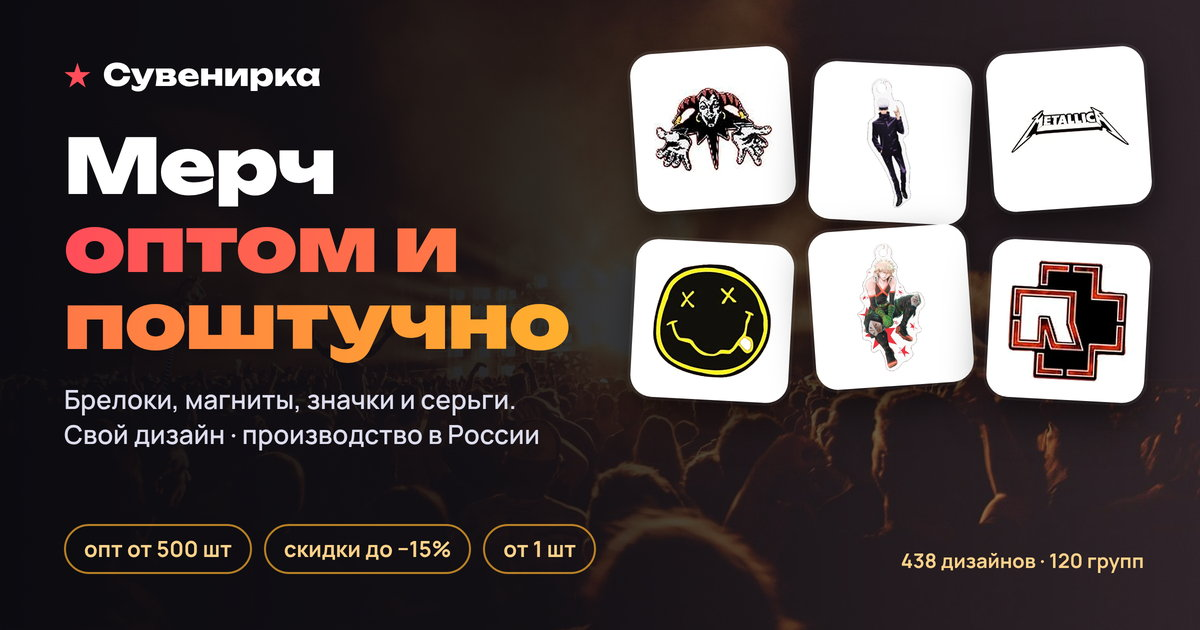
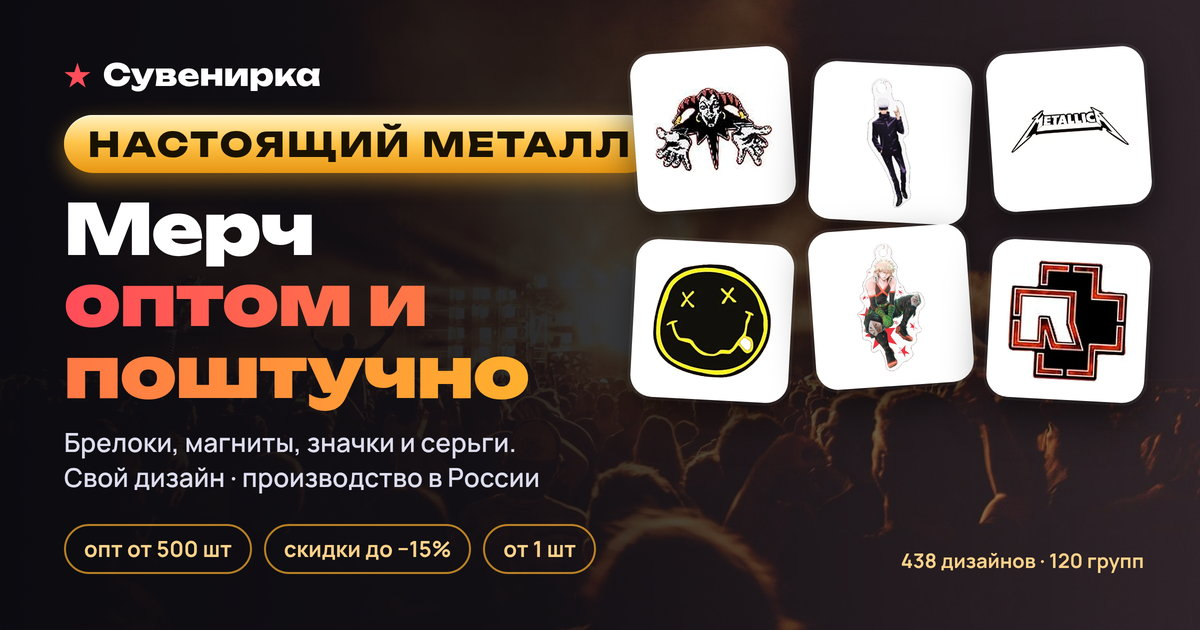
Материал «настоящий металл»: шильдик на превью ссылки, на сайте и в карточках товаров

Changed region(s): [[0.0308, 0.181, 0.555, 0.7841]]

diff --git a/index.html b/index.html
@@ -3,8 +3,8 @@
 <head>
 <meta charset="utf-8">
 <meta name="viewport" content="width=device-width, initial-scale=1">
-<title>Рок-мерч — брелоки, значки, магниты, серьги оптом и в розницу | Производство в России</title>
-<meta name="description" content="Брелоки, магниты, значки и серьги с рок-группами: оптом от 500 шт со скидками до −15% и поштучно от 1 шт. Свой дизайн под любую тематику. Производство в России.">
+<title>Мерч из настоящего металла — брелоки, значки, магниты, серьги оптом и в розницу | Производство в России</title>
+<meta name="description" content="Брелоки, магниты, значки и серьги из настоящего металла: оптом от 500 шт со скидками до −15% и поштучно от 1 шт. Свой дизайн под любую тематику. Производство в России.">
 <link rel="icon" href="favicon.svg" type="image/svg+xml">
 <link rel="icon" href="favicon-32.png" type="image/png" sizes="32x32">
 <link rel="apple-touch-icon" href="apple-touch-icon.png" sizes="180x180">
@@ -14,16 +14,16 @@
 <meta property="og:site_name" content="Сувенирка">
 <meta property="og:url" content="https://xyrma92-byte.github.io/suvenirka/">
 <meta property="og:title" content="Сувенирка — мерч оптом и поштучно">
-<meta property="og:description" content="Сувенирка — мерч оптом и поштучно">
+<meta property="og:description" content="Брелоки, магниты, значки и серьги из настоящего металла. Оптом и поштучно. Производство в России.">
 <meta property="og:image" content="https://xyrma92-byte.github.io/suvenirka/images/og/og-a.jpg">
 <meta property="og:image:secure_url" content="https://xyrma92-byte.github.io/suvenirka/images/og/og-a.jpg">
 <meta property="og:image:type" content="image/jpeg">
 <meta property="og:image:width" content="1200">
 <meta property="og:image:height" content="630">
-<meta property="og:image:alt" content="Сувенирка — мерч: брелоки, магниты, значки и серьги оптом и поштучно">
+<meta property="og:image:alt" content="Сувенирка — мерч из настоящего металла: брелоки, магниты, значки и серьги оптом и поштучно">
 <meta name="twitter:card" content="summary_large_image">
 <meta name="twitter:title" content="Сувенирка — мерч оптом и поштучно">
-<meta name="twitter:description" content="Сувенирка — мерч оптом и поштучно">
+<meta name="twitter:description" content="Брелоки, магниты, значки и серьги из настоящего металла. Оптом и поштучно. Производство в России.">
 <meta name="twitter:image" content="https://xyrma92-byte.github.io/suvenirka/images/og/og-a.jpg">
 <link rel="preconnect" href="https://fonts.googleapis.com">
 <link rel="preconnect" href="https://fonts.gstatic.com" crossorigin>
@@ -51,6 +51,7 @@
 <div class="mode-gate" id="modeGate" hidden>
   <div class="mode-gate-inner">
     <div class="logo-mark big">★</div>
+    <p class="gate-materials">Настоящий металл · стойкая УФ-печать · производство в России</p>
     <h1>Как вы покупаете?</h1>
     <p class="muted">Выберите вариант — цены и условия на сайте подстроятся. Сменить можно в любой момент кнопкой «Режим» вверху.</p>
     <div class="mode-buttons">
@@ -65,7 +66,7 @@
 <section class="view" id="view-home">
   <div class="hero">
     <div class="hero-text">
-      <span class="badge">🇷🇺 Производство в России</span>
+      <span class="badge materials">Настоящий металл · стойкая УФ-печать · производство в России</span>
       <h1 data-only="wholesale">Мерч для вашего магазина — <span class="accent">оптом от 500 шт</span></h1>
       <h1 data-only="retail">Рок-мерч для себя и в подарок — <span class="accent">от 1 штуки</span></h1>
       <p class="lead">Готовая рок-линейка: <b>438 дизайнов</b> брелоков, значков, магнитов и серёжек. А ещё делаем дизайны под <b>любое направление</b>: кино, игры, аниме, комиксы, бренды и ваши собственные идеи.</p>
@@ -98,7 +99,7 @@
     <div class="fittings-head">
       <div>
         <h2 id="fittingsTitle">Фурнитура и качество</h2>
-        <p class="fittings-lead">Как выглядит фурнитура и само изделие. Нажмите фото, чтобы увеличить.</p>
+        <p class="fittings-lead">Изделия из настоящего металла — так выглядит фурнитура и само изделие. Нажмите фото, чтобы увеличить.</p>
       </div>
       <a class="btn fittings-ozon" id="fittingsOzon" href="#" target="_blank" rel="noopener noreferrer">Смотреть отзывы на Ozon</a>
     </div>

diff --git a/styles.css b/styles.css
@@ -495,3 +495,19 @@ a{color:var(--accent2)}
 .doc table{border-collapse:collapse;width:100%;margin:8px 0}
 .doc td{border:1px solid var(--line);padding:8px 10px;vertical-align:top;font-size:14px}
 .doc-nav{display:flex;flex-wrap:wrap;gap:8px;margin:0 0 18px}
+
+/* material line on the start screen and homepage hero */
+.gate-materials{display:inline-block;margin:12px 0 0;padding:8px 16px;border-radius:99px;background:linear-gradient(180deg,rgba(255,196,74,.22),rgba(255,176,46,.08));border:1px solid rgba(255,176,46,.55);color:#ffd28a;font-weight:700;font-size:14px;letter-spacing:.02em;line-height:1.35}
+.badge.materials{line-height:1.4;white-space:normal;max-width:100%;background:linear-gradient(180deg,rgba(255,196,74,.18),rgba(255,176,46,.06));border-color:rgba(255,176,46,.5);color:#ffd28a}
+@media(max-width:640px){
+  .badge.materials,.gate-materials{font-size:13px;padding:7px 12px;border-radius:16px}
+  .mode-gate{padding:14px 16px 18px;align-items:center}
+  .logo-mark.big{font-size:36px}
+  .mode-gate h1{font-size:28px;margin:6px 0 4px}
+  .mode-gate .muted{font-size:14px;margin:0 0 4px}
+  .mode-buttons{margin-top:14px;gap:12px}
+  .mode-choice{min-height:0;padding:16px 14px;gap:6px}
+  .mode-choice b{font-size:40px}
+  .mode-choice .mode-ico{font-size:30px}
+  .mode-choice span{font-size:14px}
+}

diff --git a/app.js b/app.js
@@ -358,7 +358,7 @@ function cardHTML(p){
   return `<article class="item ${inCart?'in-cart':''}" data-id="${p.id}">
     <div class="ph" data-zoom="${p.id}">${imgTag(p.image, p.name, 'loading="lazy" decoding="async" width="360" height="360"')}${stockBadge(p)}</div>
     <div class="body">
-      <span class="cat">${esc(CATS.find(c=>c.id===p.category).one)}</span>
+      <span class="cat">${esc(CATS.find(c=>c.id===p.category).one)} · металл</span>
       <span class="name">${esc(p.name)}</span>
       <span class="price">${money(basePrice(p))} <small>/ ${p.unit === 'комплект' ? 'компл. (2 шт)' : 'шт'}</small></span>
       ${reservationNote(p)}
@@ -415,7 +415,7 @@ function bindGrid(){
 }
 function zoom(p){
   const d = document.createElement('div'); d.className = 'lightbox';
-  d.innerHTML = `<div>${imgTag(p.image, '')}<div>${esc(p.name)} · ${esc(CATS.find(c=>c.id===p.category).one)}</div></div>`;
+  d.innerHTML = `<div>${imgTag(p.image, '')}<div>${esc(p.name)} · ${esc(CATS.find(c=>c.id===p.category).one)} · металл</div></div>`;
   d.onclick = () => d.remove(); document.body.appendChild(d);
 }
 function renderFittings(){

diff --git a/tools/make_og_previews.py b/tools/make_og_previews.py
@@ -3,7 +3,8 @@
 
 Reuses the HTML-and-Chrome pipeline from the first OG set (stage collage,
 minimal typography, price-focused), with two anime keyrings in every
-variant and the wording «Мерч» instead of «рок-мерч».
+variant, the wording «Мерч» instead of «рок-мерч»,
+and a prominent «НАСТОЯЩИЙ МЕТАЛЛ» badge.
 
 Usage (from repo root or any cwd):
     python3 tools/make_og_previews.py
@@ -307,14 +308,16 @@ html,body{{width:1200px;height:630px;overflow:hidden;background:#0a0a0f;color:#f
 .logo i{{font-style:normal;color:#ff4d5a}}
 .pill{{display:inline-block;border:2px solid rgba(255,176,46,.7);color:#ffd28a;border-radius:99px;padding:8px 18px;font-weight:700;font-size:22px}}
 .url{{font-weight:600;color:#aab;font-size:20px}}
+.metal{{display:inline-flex;align-items:center;background:linear-gradient(180deg,#fff3c4 0%,#ffc44a 48%,#e89612 100%);color:#1a1200;font-family:U;font-weight:800;font-size:34px;letter-spacing:.07em;text-transform:uppercase;border-radius:99px;padding:12px 24px;line-height:1;box-shadow:0 8px 22px rgba(255,176,46,.45),inset 0 1px 0 rgba(255,255,255,.7)}}
 """
     (BUILD_DIR / "base.css").write_text(css, encoding="utf-8")
 
     a_html = f"""<html><head><link rel=stylesheet href=base.css><style>
 .shade{{background:linear-gradient(90deg,rgba(10,10,15,.96) 0%,rgba(10,10,15,.85) 45%,rgba(10,10,15,.35) 100%)}}
 .txt{{position:absolute;left:64px;top:56px;width:600px}}
-h1{{font-family:U;font-weight:900;font-size:76px;line-height:1.02;margin:34px 0 22px;letter-spacing:-1px}}
+h1{{font-family:U;font-weight:900;font-size:70px;line-height:1.02;margin:20px 0 18px;letter-spacing:-1px}}
 p{{font-size:26px;color:#dde;line-height:1.35;font-weight:600}}
+.txt .metal{{margin-top:22px}}
 .pills{{position:absolute;left:64px;bottom:56px;display:flex;gap:12px}}
 .grid{{position:absolute;right:52px;top:50px;display:grid;grid-template-columns:repeat(3,158px);gap:20px}}
 .grid .card{{width:158px;height:158px}}
@@ -322,6 +325,7 @@ p{{font-size:26px;color:#dde;line-height:1.35;font-weight:600}}
 .cap{{position:absolute;right:56px;bottom:56px;font-weight:700;font-size:20px;color:#ffd28a}}
 </style></head><body><div class=stage></div><div class=shade></div>
 <div class=txt><div class=logo><i>★</i>Сувенирка</div>
+<div class=metal>Настоящий металл</div>
 <h1>Мерч<br><span class=acc>оптом и<br>поштучно</span></h1>
 <p>Брелоки, магниты, значки и серьги.<br>Свой дизайн · производство в России</p></div>
 <div class=pills><span class=pill>опт от 500 шт</span><span class=pill>скидки до −15%</span><span class=pill>от 1 шт</span></div>
@@ -341,6 +345,7 @@ body{{background:radial-gradient(900px 500px at 85% 20%,rgba(255,77,90,.35),tran
 .top{{position:absolute;left:64px;top:52px;right:64px;display:flex;justify-content:space-between;align-items:center}}
 h1{{position:absolute;left:64px;top:118px;font-family:U;font-weight:900;font-size:140px;line-height:.95;letter-spacing:-3px;text-transform:uppercase}}
 h2{{position:absolute;left:66px;top:268px;font-family:U;font-weight:800;font-size:44px;letter-spacing:-1px}}
+.badge-slot{{position:absolute;left:66px;top:340px}}
 .sub{{position:absolute;left:68px;bottom:62px;font-size:26px;font-weight:700;color:#dde}}
 .sub b{{color:#ffb02e}}
 .row{{position:absolute;right:48px;top:130px;width:520px;height:360px}}
@@ -353,6 +358,7 @@ h2{{position:absolute;left:66px;top:268px;font-family:U;font-weight:800;font-siz
 <div class=top><div class=logo><i>★</i>Сувенирка</div><span class=url>xyrma92-byte.github.io/suvenirka</span></div>
 <h1>Мерч<span class=acc>.</span></h1>
 <h2 class=acc>оптом и поштучно</h2>
+<div class=badge-slot><div class=metal>Настоящий металл</div></div>
 <div class=row>
 <div class=card><img src={gojo}></div>
 <div class=card><img src={PINS['kish']}></div>
@@ -369,6 +375,7 @@ h2{{position:absolute;left:66px;top:268px;font-family:U;font-weight:800;font-siz
 .big .l1{{font-size:52px;color:#fff;letter-spacing:1px}}
 .big .l2{{font-size:150px;letter-spacing:-5px;margin-top:6px}}
 .big .l3{{font-size:30px;font-family:M;font-weight:700;color:#dde;margin-top:16px}}
+.big .metal{{margin-top:20px;font-size:30px;padding:11px 22px}}
 .prices{{position:absolute;left:64px;right:64px;bottom:52px;display:grid;grid-template-columns:repeat(4,1fr);gap:16px}}
 .pc{{background:rgba(27,30,38,.92);border:1px solid #2a2e39;border-radius:18px;padding:14px;display:flex;gap:14px;align-items:center}}
 .pc .card{{width:84px;height:84px;padding:6px;border-radius:14px;box-shadow:none;flex:none}}
@@ -382,7 +389,7 @@ h2{{position:absolute;left:66px;top:268px;font-family:U;font-weight:800;font-siz
 .feat .card:nth-child(2){{left:110px;top:0;transform:rotate(7deg);z-index:2}}
 </style></head><body><div class=stage></div><div class=shade></div>
 <div class=top><div class=logo><i>★</i>Сувенирка</div><span class=pill>производство в России</span></div>
-<div class=big><div class=l1>ОПТ ОТ</div><div class="l2 acc">189 ₽</div><div class=l3>за штуку · минимум 500 шт миксом</div></div>
+<div class=big><div class=l1>ОПТ ОТ</div><div class="l2 acc">189 ₽</div><div class=l3>за штуку · минимум 500 шт миксом</div><div class=metal>Настоящий металл</div></div>
 <div class=feat>
 <div class=card><img src={gojo}></div>
 <div class=card><img src={bakugo}></div>
